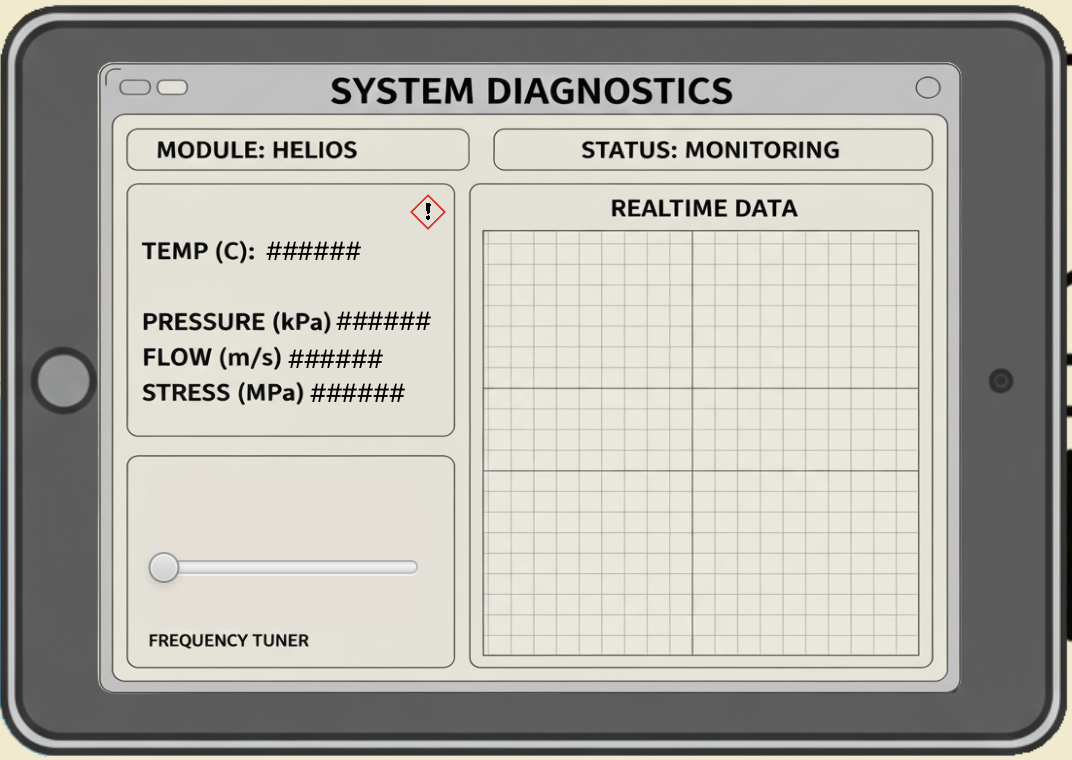
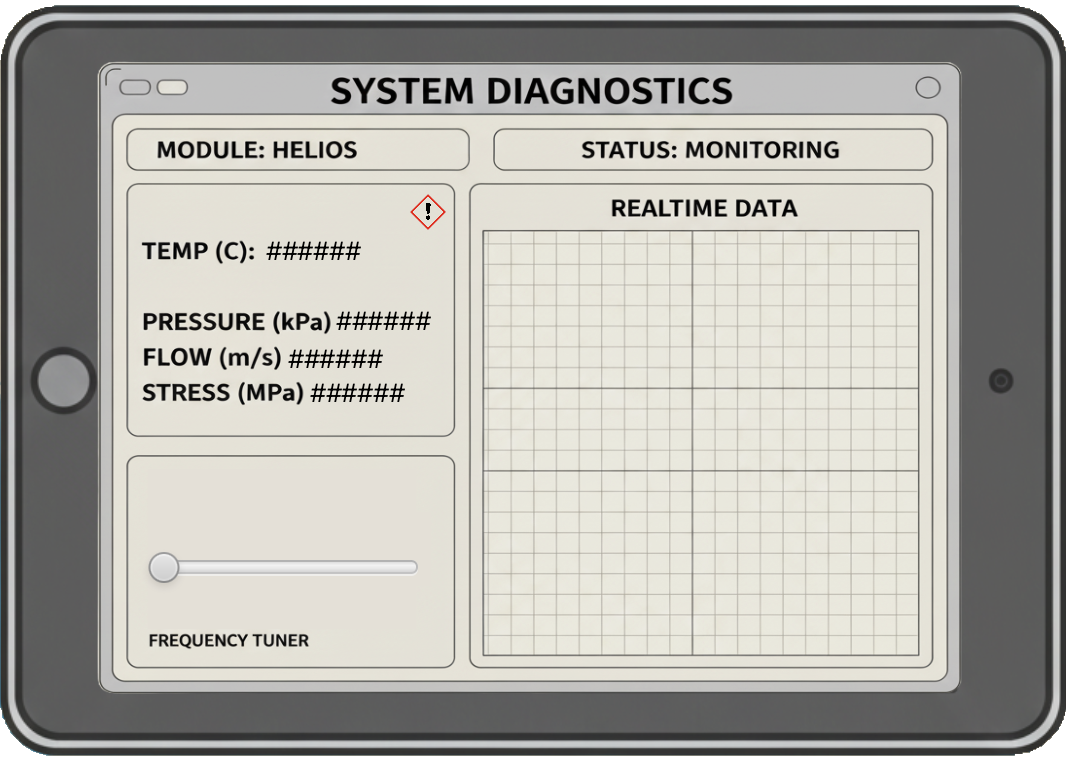
Small visual changes to some graphics.

Changed region(s): [[0.0, 0.0, 1.0, 1.0]]

diff --git a/src/main/resources/css/room.css b/src/main/resources/css/room.css
@@ -76,7 +76,6 @@
   align-items: center;
 }
 
-
 #lblTimer {
   font-family: "Consolas";
   -fx-font-family: "Consolas";
@@ -84,4 +83,25 @@
   -fx-font-size: 20px;
   -fx-text-fill: black;
   align-items: center;
+}
+
+#lblSpokenTo1,
+#lblSpokenTo2,
+#lblSpokenTo3 {
+  font-family: "Consolas";
+  -fx-font-family: "Consolas";
+  font-size: 20px;
+  -fx-font-size: 20px;
+  -fx-text-fill: black;
+  align-items: center;
+  -fx-background-color: #fff8e3;
+  background-color: #fff8e3;
+  -fx-background-radius: 10px;
+  background-radius: 10px;
+  -fx-border-color: black;
+  border-color: black;
+  -fx-border-radius: 10px;
+  border-radius: 10px;
+  padding: 5px;
+  -fx-padding: 5px;
 }

diff --git a/src/main/java/nz/ac/auckland/se206/controllers/DebriefController.java b/src/main/java/nz/ac/auckland/se206/controllers/DebriefController.java
@@ -112,12 +112,6 @@ public class DebriefController extends Controller {
     // Include the player's verdict and rationale
     prompt.append("Player's submitted verdict and rationale:\n").append(verdictText).append("\n\n");
 
-    // Provide the correct rationale for the case
-    prompt.append(
-        "The correct rationale is that the defendant is innocent, because they were manipulated by"
-            + " higher ups to install the new Helios system into the power plant, but they did not"
-            + " know the risks. But ultimately it is not their fault.\n\n");
-
     // Include the chat history between the player and trial participants for additional context
     prompt
         .append("Chat history between the player and trial participants:\n")
@@ -139,12 +133,20 @@ public class DebriefController extends Controller {
             + "- If you detect a contradiction between the verdict and rationale, classify as"
             + " 'Correct verdict but incorrect rationale' and explain the contradiction in your"
             + " feedback.\n"
+            + " You can be lenient with minor errors in the rationale, as long as they got the main"
+            + " points right it is acceptable.\n"
             + "- Always keep the classification short, then give concise feedback and a clear"
             + " corrective or affirming explanation of the correct verdict.\n"
             + "- Use the following output format:\n"
             + "OUTCOME: <one of the three labels>\n"
             + "FEEDBACK: <1-2 sentences>\n"
             + "EXPLANATION: <2-4 sentences giving the correct verdict and key evidence>\n\n");
+
+    // Provide the correct verdict and rationale for reference
+    prompt.append(
+        "The correct verdict and rationale should be something along the lines of:\n"
+            + " The defendant is not guilty because they were manipulated and pressured by higher"
+            + " ups to install new technology which they did not know the risks of.\n\n");
 
     // Example for contradiction handling
     prompt.append(
